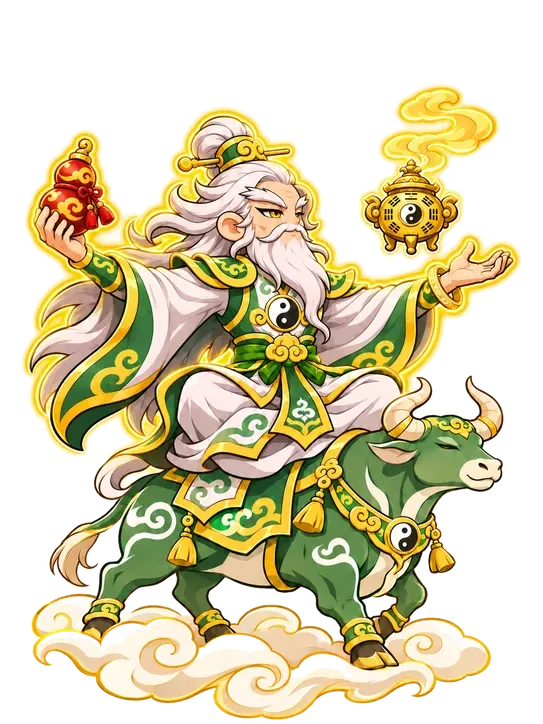
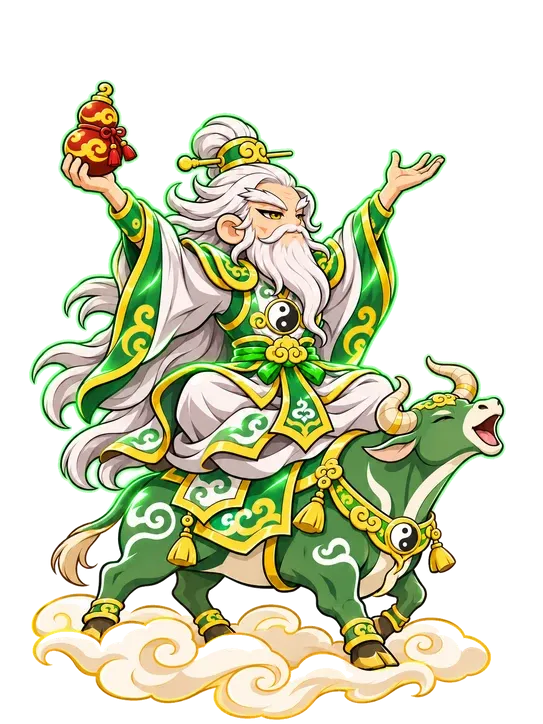
Chuan kich thuoc tuong (nguoi cuoi thu cung co); Thai Thuong tach lop: Thai Cuc Do xoay sau lung + khi am duong, lo Bat Quai phun khoi, Kim Cuong Trac bay quanh

diff --git a/art/poses/hmeta.js b/art/poses/hmeta.js
@@ -1,1 +1,1 @@
-window.HPOSE = {"loichantu": {"H": 1201.8, "gnd": [660, 1395]}, "thohanhton": {"H": 1196.0, "gnd": [512, 1387]}, "thaiatchannhan": {"H": 1185.3, "gnd": [573, 1335]}, "thancongbao": {"H": 1182.4, "gnd": [657, 1321]}, "longnu": {"H": 1303.7, "gnd": [567, 1398]}, "kimgiac": {"H": 1298.8, "gnd": [578, 1384]}, "tieubachlong": {"H": 1265.8, "gnd": [517, 1412]}, "thaibachkimtinh": {"H": 1135.9, "gnd": [604, 1321]}, "culinhthan": {"H": 1254.2, "gnd": [575, 1394]}, "hoangphongquai": {"H": 1087.4, "gnd": [479, 1364]}, "khuongtanha": {"H": 1377.4, "gnd": [570, 1429]}, "trieucongminh": {"H": 1368.7, "gnd": [572, 1420]}, "bachcot": {"H": 1371.6, "gnd": [574, 1423]}, "bodetosu": {"H": 1372.5, "gnd": [563, 1426]}, "tranguyentu": {"H": 1327.9, "gnd": [551, 1403]}, "hoangphiho": {"H": 1167.9, "gnd": [519, 1358]}, "dienmau": {"H": 1308.5, "gnd": [543, 1398]}, "thanhnguutinh": {"H": 1287.2, "gnd": [502, 1387]}, "longvuong": {"H": 1262.0, "gnd": [591, 1418]}, "dangthienngoc": {"H": 1246.5, "gnd": [535, 1378]}, "kimtra": {"H": 1344.4, "gnd": [540, 1409]}, "hachhung": {"H": 1286.2, "gnd": [533, 1387]}, "thodia": {"H": 1212.5, "gnd": [479, 1341]}, "giaochu": {"H": 1034.0, "gnd": [506, 1437]}, "khongtuyen": {"H": 1276.5, "gnd": [568, 1423]}, "nhiendang": {"H": 1207.6, "gnd": [467, 1367]}, "thaisu": {"H": 1356.1, "gnd": [556, 1418]}, "hoangmi": {"H": 1227.0, "gnd": [528, 1367]}, "vanthu": {"H": 1276.5, "gnd": [538, 1395]}, "quynhtieu": {"H": 1240.6, "gnd": [517, 1367]}, "hoangthienhoa": {"H": 1375.5, "gnd": [555, 1432]}, "viho": {"H": 1386.1, "gnd": [563, 1435]}, "thachco": {"H": 1165.9, "gnd": [445, 1347]}, "giaochu_s2": {"H": 1287.2, "gnd": [570, 1423]}, "thailaoquan_s2": {"H": 1384.2, "gnd": [556, 1434]}, "thailaoquan": {"H": 1107.7, "gnd": [533, 1439]}, "hongquan": {"H": 1275.5, "gnd": [522, 1412]}, "nguyenthuy": {"H": 1303.7, "gnd": [551, 1423]}, "ngochoang": {"H": 1327.9, "gnd": [519, 1417]}, "dilac": {"H": 1022.4, "gnd": [516, 1278]}, "quangthanh": {"H": 1329.9, "gnd": [502, 1423]}, "kimlinh": {"H": 1304.6, "gnd": [510, 1412]}, "chanvu": {"H": 1107.7, "gnd": [557, 1338]}, "vuongmau": {"H": 1330.8, "gnd": [502, 1417]}, "phohien": {"H": 1318.2, "gnd": [465, 1418]}, "daibang": {"H": 1179.5, "gnd": [489, 1361]}, "ngocdinh": {"H": 1336.7, "gnd": [556, 1423]}, "hoangbao": {"H": 1303.7, "gnd": [471, 1429]}, "bachnhan": {"H": 1330.8, "gnd": [550, 1423]}, "hattu": {"H": 1327.0, "gnd": [494, 1401]}, "moctra": {"H": 1167.9, "gnd": [553, 1344]}, "nganggiac": {"H": 1266.8, "gnd": [563, 1384]}, "loicong": {"H": 1243.5, "gnd": [529, 1375]}, "ngoctho": {"H": 1308.5, "gnd": [528, 1415]}, "maonhat": {"H": 1223.2, "gnd": [535, 1360]}, "linhcam": {"H": 1172.7, "gnd": [642, 1361]}, "ngokhong": {"H": 1359.9, "gnd": [580, 1400]}, "batgioi": {"H": 1476.0, "gnd": [615, 1421]}, "nata": {"H": 1447.8, "gnd": [560, 1418]}, "ngumavuong": {"H": 1306.8, "gnd": [620, 1410]}, "honghainhi": {"H": 1260.4, "gnd": [560, 1405]}, "quanam": {"H": 1144.3, "gnd": [560, 1330]}, "datky": {"H": 1354.9, "gnd": [560, 1415]}, "duongtang": {"H": 1434.5, "gnd": [570, 1410]}, "duongtien": {"H": 1069.7, "gnd": [520, 1295]}, "vantieu": {"H": 1401.3, "gnd": [560, 1415]}, "satang": {"H": 1417.9, "gnd": [560, 1415]}, "thietphien": {"H": 1369.8, "gnd": [560, 1416]}, "litinh": {"H": 1353.2, "gnd": [560, 1416]}, "hangnga": {"H": 1343.3, "gnd": [560, 1415]}};
+window.HPOSE = {"loichantu": {"H": 1201.8, "gnd": [660, 1395]}, "thohanhton": {"H": 1196.0, "gnd": [512, 1387]}, "thaiatchannhan": {"H": 1185.3, "gnd": [573, 1335]}, "thancongbao": {"H": 1182.4, "gnd": [657, 1321]}, "longnu": {"H": 1303.7, "gnd": [567, 1398]}, "kimgiac": {"H": 1298.8, "gnd": [578, 1384]}, "tieubachlong": {"H": 1265.8, "gnd": [517, 1412]}, "thaibachkimtinh": {"H": 1135.9, "gnd": [604, 1321]}, "culinhthan": {"H": 1254.2, "gnd": [575, 1394]}, "hoangphongquai": {"H": 1087.4, "gnd": [479, 1364]}, "khuongtanha": {"H": 1377.4, "gnd": [570, 1429]}, "trieucongminh": {"H": 1368.7, "gnd": [572, 1420]}, "bachcot": {"H": 1371.6, "gnd": [574, 1423]}, "bodetosu": {"H": 1372.5, "gnd": [563, 1426]}, "tranguyentu": {"H": 1327.9, "gnd": [551, 1403]}, "hoangphiho": {"H": 1167.9, "gnd": [519, 1358]}, "dienmau": {"H": 1308.5, "gnd": [543, 1398]}, "thanhnguutinh": {"H": 1287.2, "gnd": [502, 1387]}, "longvuong": {"H": 1262.0, "gnd": [591, 1418]}, "dangthienngoc": {"H": 1246.5, "gnd": [535, 1378]}, "kimtra": {"H": 1344.4, "gnd": [540, 1409]}, "hachhung": {"H": 1286.2, "gnd": [533, 1387]}, "thodia": {"H": 1212.5, "gnd": [479, 1341]}, "giaochu": {"H": 1034.0, "gnd": [506, 1437]}, "khongtuyen": {"H": 1276.5, "gnd": [568, 1423]}, "nhiendang": {"H": 1207.6, "gnd": [467, 1367]}, "thaisu": {"H": 1356.1, "gnd": [556, 1418]}, "hoangmi": {"H": 1227.0, "gnd": [528, 1367]}, "vanthu": {"H": 1276.5, "gnd": [538, 1395]}, "quynhtieu": {"H": 1240.6, "gnd": [517, 1367]}, "hoangthienhoa": {"H": 1375.5, "gnd": [555, 1432]}, "viho": {"H": 1386.1, "gnd": [563, 1435]}, "thachco": {"H": 1165.9, "gnd": [445, 1347]}, "giaochu_s2": {"H": 1287.2, "gnd": [570, 1423]}, "thailaoquan_s2": {"H": 1384.2, "gnd": [556, 1434]}, "thailaoquan": {"H": 1106.8, "gnd": [534, 1439]}, "hongquan": {"H": 1275.5, "gnd": [522, 1412]}, "nguyenthuy": {"H": 1303.7, "gnd": [551, 1423]}, "ngochoang": {"H": 1327.9, "gnd": [519, 1417]}, "dilac": {"H": 1022.4, "gnd": [516, 1278]}, "quangthanh": {"H": 1329.9, "gnd": [502, 1423]}, "kimlinh": {"H": 1304.6, "gnd": [510, 1412]}, "chanvu": {"H": 1107.7, "gnd": [557, 1338]}, "vuongmau": {"H": 1330.8, "gnd": [502, 1417]}, "phohien": {"H": 1318.2, "gnd": [465, 1418]}, "daibang": {"H": 1179.5, "gnd": [489, 1361]}, "ngocdinh": {"H": 1336.7, "gnd": [556, 1423]}, "hoangbao": {"H": 1303.7, "gnd": [471, 1429]}, "bachnhan": {"H": 1330.8, "gnd": [550, 1423]}, "hattu": {"H": 1327.0, "gnd": [494, 1401]}, "moctra": {"H": 1167.9, "gnd": [553, 1344]}, "nganggiac": {"H": 1266.8, "gnd": [563, 1384]}, "loicong": {"H": 1243.5, "gnd": [529, 1375]}, "ngoctho": {"H": 1308.5, "gnd": [528, 1415]}, "maonhat": {"H": 1223.2, "gnd": [535, 1360]}, "linhcam": {"H": 1172.7, "gnd": [642, 1361]}, "ngokhong": {"H": 1359.9, "gnd": [580, 1400]}, "batgioi": {"H": 1476.0, "gnd": [615, 1421]}, "nata": {"H": 1447.8, "gnd": [560, 1418]}, "ngumavuong": {"H": 1306.8, "gnd": [620, 1410]}, "honghainhi": {"H": 1260.4, "gnd": [560, 1405]}, "quanam": {"H": 1144.3, "gnd": [560, 1330]}, "datky": {"H": 1354.9, "gnd": [560, 1415]}, "duongtang": {"H": 1434.5, "gnd": [570, 1410]}, "duongtien": {"H": 1069.7, "gnd": [520, 1295]}, "vantieu": {"H": 1401.3, "gnd": [560, 1415]}, "satang": {"H": 1417.9, "gnd": [560, 1415]}, "thietphien": {"H": 1369.8, "gnd": [560, 1416]}, "litinh": {"H": 1353.2, "gnd": [560, 1416]}, "hangnga": {"H": 1343.3, "gnd": [560, 1415]}};

diff --git a/index.html b/index.html
@@ -14,26 +14,26 @@
 <link rel="preconnect" href="https://fonts.googleapis.com">
 <link rel="preconnect" href="https://fonts.gstatic.com" crossorigin>
 <link href="https://fonts.googleapis.com/css2?family=Baloo+2:wght@500;600;700;800&family=Dancing+Script:wght@700&display=swap" rel="stylesheet">
-<link rel="stylesheet" href="css/style.css?v=1795451186">
-<link rel="stylesheet" href="css/themes.css?v=1795451186">
+<link rel="stylesheet" href="css/style.css?v=1795452449">
+<link rel="stylesheet" href="css/themes.css?v=1795452449">
 </head>
 <body>
 <div id="app">
   <canvas id="game"></canvas>
   <div id="ui"></div>
 </div>
-<script src="js/data.js?v=1795451186"></script><script src="art/enemies/meta.js?v=1795451186"></script><script src="art/ssrfx/aura_c.js?v=1795451186"></script>
-  <script src="art/poses/hmeta.js?v=1795451186"></script>
-<script src="js/art.js?v=1795451186"></script>
-<script src="art/anim/manifest.js?v=1795451186"></script>
-<script src="js/rig.js?v=1795451186"></script>
-<script src="art/rig/all.js?v=1795451186"></script>
-<script src="js/layered.js?v=1795451186"></script>
-<script src="art/mesh/index.js?v=1795451186"></script>
-<script src="js/meshrig.js?v=1795451186"></script>
-<script src="art/skel/index.js?v=1795451186"></script>
-<script src="js/skel.js?v=1795451186"></script>
-<script src="js/vfx.js?v=1795451186"></script>
-<script src="js/main.js?v=1795451186"></script>
+<script src="js/data.js?v=1795452449"></script><script src="art/enemies/meta.js?v=1795452449"></script><script src="art/ssrfx/aura_c.js?v=1795452449"></script>
+  <script src="art/poses/hmeta.js?v=1795452449"></script>
+<script src="js/art.js?v=1795452449"></script>
+<script src="art/anim/manifest.js?v=1795452449"></script>
+<script src="js/rig.js?v=1795452449"></script>
+<script src="art/rig/all.js?v=1795452449"></script>
+<script src="js/layered.js?v=1795452449"></script>
+<script src="art/mesh/index.js?v=1795452449"></script>
+<script src="js/meshrig.js?v=1795452449"></script>
+<script src="art/skel/index.js?v=1795452449"></script>
+<script src="js/skel.js?v=1795452449"></script>
+<script src="js/vfx.js?v=1795452449"></script>
+<script src="js/main.js?v=1795452449"></script>
 </body>
 </html>
